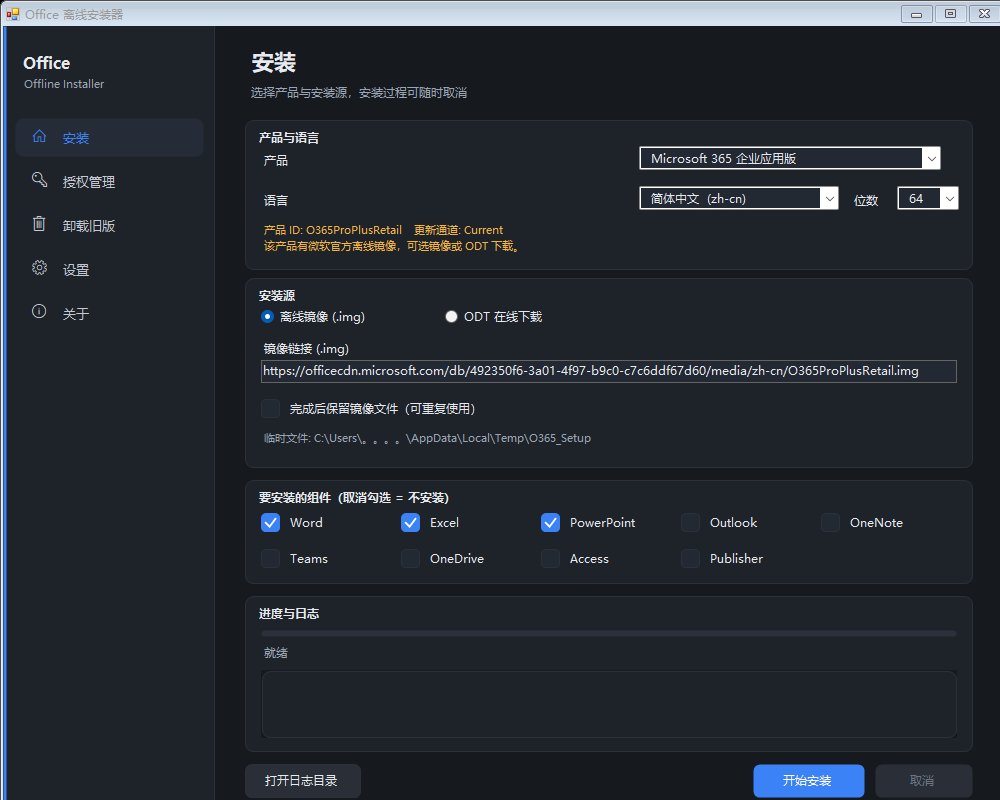
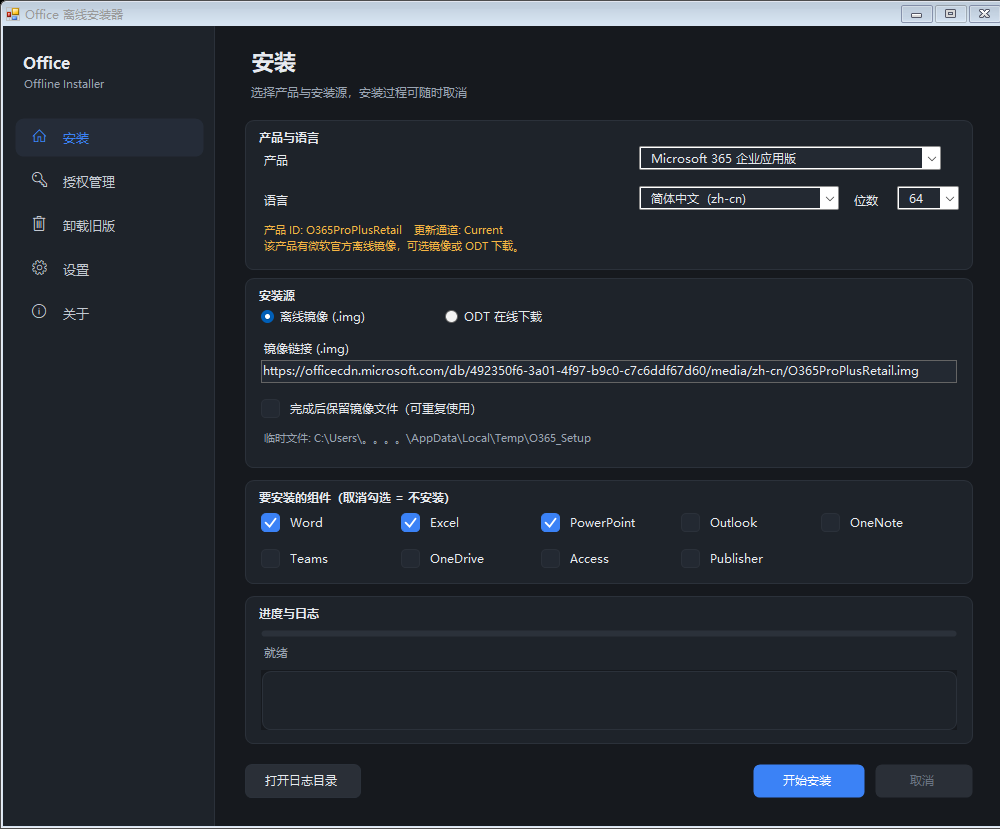
修复面板未跟随主题与进度卡片被裁切
- Theme.Apply 增加普通 Panel 处理，页面背景不再残留浅色（标题区发白、右侧出现色带）
- 去掉侧边栏通栏蓝色装饰条
- 进度与日志卡片按可用高度自适应收缩，小屏下不再被底部按钮压住
- 版本号 1.3.1.0

diff --git a/src/Installer.cs b/src/Installer.cs
@@ -17,8 +17,8 @@ using System.Threading.Tasks;
 using System.Windows.Forms;
 using Microsoft.Win32;
 
-[assembly: AssemblyVersion("1.3.0.0")]
-[assembly: AssemblyFileVersion("1.3.0.0")]
+[assembly: AssemblyVersion("1.3.1.0")]
+[assembly: AssemblyFileVersion("1.3.1.0")]
 
 namespace O365Installer
 {
@@ -383,6 +383,8 @@ namespace O365Installer
         FlatProgress bar;
         RichTextBox log;
         CardPanel logWrap;
+        Panel installScroll;
+        CardGroup progressCard;
         FlatButton btnStart, btnCancel, btnLog, btnTheme;
         Dictionary<string, CheckBox> checks = new Dictionary<string, CheckBox>();
         CancellationTokenSource cts;
@@ -408,7 +410,7 @@ namespace O365Installer
                         Activate();
                         TopMost = true;
                         Application.DoEvents();
-                        Rectangle r = new Rectangle(0, 0, ClientSize.Width, ClientSize.Height);
+                        Rectangle r = new Rectangle(0, 0, ClientSize.Width, ClientSize.Height + 34);
                         Bitmap b = new Bitmap(r.Width, r.Height);
                         DrawToBitmap(b, r);
                         b.Save(Path.Combine(Path.GetTempPath(), "o365exe_ui.png"), ImageFormat.Png);
@@ -479,6 +481,7 @@ namespace O365Installer
 
             ShowPage(UiTestPage >= 0 ? UiTestPage : 0);
             Theme.Apply(this);
+            FitInstallPage();
             UpdateThemeButton();
             ActiveControl = null;
 
@@ -511,6 +514,25 @@ namespace O365Installer
             l.Location = new Point(x, y);
             parent.Controls.Add(l);
             return l;
+        }
+
+        void FitInstallPage()
+        {
+            if (installScroll == null || progressCard == null) return;
+            int have = installScroll.ClientSize.Height;
+            int need = progressCard.Bottom + 8;
+            if (need <= have) return;
+
+            int over = need - have;
+            int target = progressCard.Height - over;
+            if (target < 96) target = 96;
+            int delta = progressCard.Height - target;
+            progressCard.Height = target;
+            if (logWrap != null)
+            {
+                int lh = logWrap.Height - delta;
+                logWrap.Height = lh < 34 ? 34 : lh;
+            }
         }
 
         void AddPageHeader(Panel page, string title, string sub)
@@ -586,32 +608,32 @@ namespace O365Installer
             bottom.BackColor = Theme.Bg;
             page.Controls.Add(bottom);
 
-            Panel scroll = new Panel();
-            scroll.Dock = DockStyle.Fill;
-            scroll.AutoScroll = true;
-            scroll.BackColor = Theme.Bg;
-            page.Controls.Add(scroll);
-            page.Controls.SetChildIndex(scroll, 0);
+            installScroll = new Panel();
+            installScroll.Dock = DockStyle.Fill;
+            installScroll.AutoScroll = true;
+            installScroll.BackColor = Theme.Bg;
+            page.Controls.Add(installScroll);
+            page.Controls.SetChildIndex(installScroll, 0);
 
             Label hd = new Label();
             hd.Text = L.T("安装");
             hd.Font = new Font("Microsoft YaHei UI", 16F, FontStyle.Bold);
             hd.AutoSize = true;
             hd.Location = new Point(2, 0);
-            scroll.Controls.Add(hd);
+            installScroll.Controls.Add(hd);
 
             Label hs = new Label();
             hs.Text = L.T("选择产品与安装源，安装过程可随时取消");
             hs.Tag = "sub";
             hs.AutoSize = true;
             hs.Location = new Point(3, 38);
-            scroll.Controls.Add(hs);
+            installScroll.Controls.Add(hs);
 
             CardGroup ca = new CardGroup();
             ca.Text = L.T("产品与语言");
             ca.Location = new Point(0, 74);
             ca.Size = new Size(W, 150);
-            scroll.Controls.Add(ca);
+            installScroll.Controls.Add(ca);
 
             RowLabel(ca, L.T("产品"), 16, 32);
             cbProduct = new FlatCombo();
@@ -664,7 +686,7 @@ namespace O365Installer
             cb.Text = L.T("安装源");
             cb.Location = new Point(0, 232);
             cb.Size = new Size(W, 190);
-            scroll.Controls.Add(cb);
+            installScroll.Controls.Add(cb);
 
             rbImg = new RadioButton();
             rbImg.Text = L.T("离线镜像 (.img)");
@@ -728,7 +750,7 @@ namespace O365Installer
             cc.Text = L.T("要安装的组件（取消勾选 = 不安装）");
             cc.Location = new Point(0, 434);
             cc.Size = new Size(W, 104);
-            scroll.Controls.Add(cc);
+            installScroll.Controls.Add(cc);
 
             string[] on = new string[] { "Word", "Excel", "PowerPoint" };
             for (int i = 0; i < AppNames.Length; i++)
@@ -744,11 +766,12 @@ namespace O365Installer
                 checks[AppNames[i]] = c;
             }
 
-            CardGroup cd = new CardGroup();
+            progressCard = new CardGroup();
+            CardGroup cd = progressCard;
             cd.Text = L.T("进度与日志");
             cd.Location = new Point(0, 550);
             cd.Size = new Size(W, 156);
-            scroll.Controls.Add(cd);
+            installScroll.Controls.Add(cd);
 
             bar = new FlatProgress();
             bar.Location = new Point(16, 32);

diff --git a/src/Theme.cs b/src/Theme.cs
@@ -117,6 +117,12 @@ namespace O365Installer
                 b.FlatAppearance.BorderSize = 1;
             }
 
+            Panel pn = root as Panel;
+            if (pn != null && !(pn is CardPanel) && !(pn is SideNav))
+            {
+                pn.BackColor = Bg;
+            }
+
             TextBox tb = root as TextBox;
             if (tb != null)
             {
@@ -242,9 +248,6 @@ namespace O365Installer
             Graphics g = e.Graphics;
             g.SmoothingMode = SmoothingMode.AntiAlias;
             g.Clear(BackColor);
-
-            using (SolidBrush b = new SolidBrush(Theme.Accent))
-                g.FillRectangle(b, 0, 0, 3, Height);
 
             TextRenderer.DrawText(g, "Office", new Font("Microsoft YaHei UI", 12F, FontStyle.Bold), new Point(20, 26), Theme.Text, TextFormatFlags.NoPadding);
             TextRenderer.DrawText(g, "Offline Installer", new Font("Microsoft YaHei UI", 8F), new Point(21, 50), Theme.SubText, TextFormatFlags.NoPadding);
